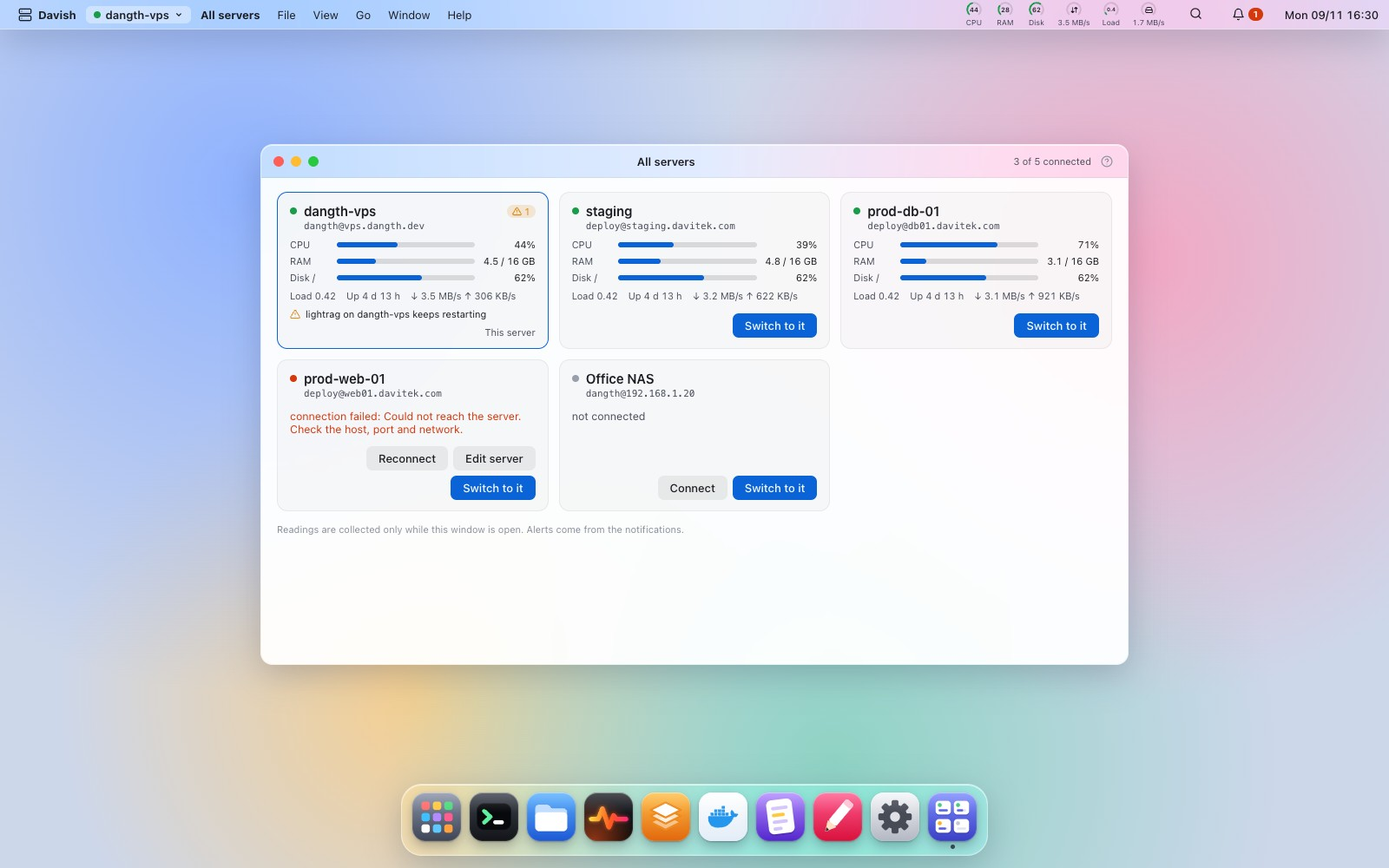
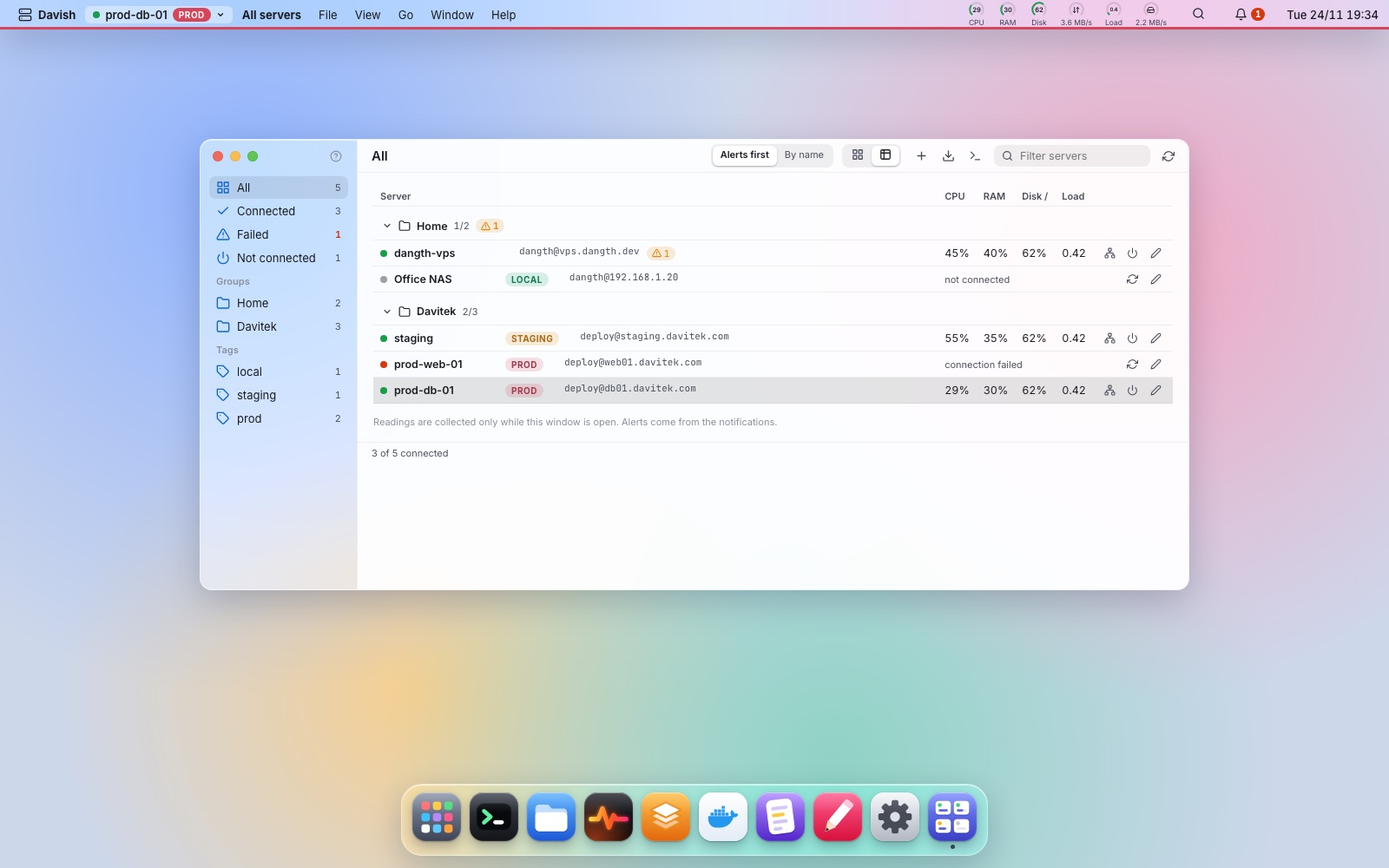
docs(repo): screenshots and text for server tags and groups
The All servers screenshot still showed the old card layout, everywhere
it appears. It is retaken, with groups, tags and the sidebar, for the
README docs in English and Vietnamese and for the site (light and dark),
and there is a new picture of the grouped server menu with its tags.

The All servers pages on the site (English and Vietnamese) now describe
groups and tags as FEATURES does, the filter sentence reflects that the
search always shows and also matches tag and group, and the READMEs
mention tags and groups in the multi-server bullet and in the All servers
entry. The pictures use the anonymized demo servers of the existing ones.

diff --git a/FEATURES.vi.md b/FEATURES.vi.md
@@ -72,13 +72,15 @@ Trên server Windows (OpenSSH, Windows PowerShell 5.1, không cài thêm gì) Mo
 
 Mọi server trong một cửa sổ, mở từ menu server, Launchpad hoặc Spotlight: đã kết nối chưa, CPU, RAM, ổ `/`, load, thời gian chạy và mạng, kèm số cảnh báo (service lỗi, container khởi động lại liên tục, ổ đầy…) và cảnh báo mới nhất. Kết nối hoặc chuyển sang server ngay trên thẻ của nó. Số liệu chỉ được thu khi cửa sổ đang mở, qua cùng phiên mà Monitor dùng.
 
-Nút **Bản đồ** trên thẻ server đã kết nối cho thấy request nào tới chương trình nào: mỗi site nginx là một chuỗi `tên miền → nginx :443 → :3000 → container (stack)`, site tĩnh kèm thư mục, và các cổng mở ra ngoài mà không site nào proxy tới. Cổng database mở ra Internet, upstream không ai nghe và chứng chỉ hết hạn trong 14 ngày được đưa lên đầu, mỗi cái có nút mở đúng app để sửa; mỗi mắt xích bấm được để mở app của nó (Nginx, Trình duyệt, Docker tại container đó). Bên dưới là những gì đang chạy (stack compose và chương trình đang nghe) và các ổ đĩa. Bản đồ chỉ đọc những gì Nginx, Cổng, Docker và Ổ đĩa vốn đã đọc. Từ 4 server trở lên, cửa sổ có ô lọc theo tên và xếp server có cảnh báo lên trước. Dạng **Danh sách** hiện mỗi server một dòng gọn (số liệu, cảnh báo, bản đồ, kết nối hoặc ngắt kết nối, sửa), và cửa sổ tự thêm, nhập, sửa, ngắt kết nối server. `⌘O` (Ctrl+O) mở nó từ bất cứ đâu.
+Nút **Bản đồ** trên thẻ server đã kết nối cho thấy request nào tới chương trình nào: mỗi site nginx là một chuỗi `tên miền → nginx :443 → :3000 → container (stack)`, site tĩnh kèm thư mục, và các cổng mở ra ngoài mà không site nào proxy tới. Cổng database mở ra Internet, upstream không ai nghe và chứng chỉ hết hạn trong 14 ngày được đưa lên đầu, mỗi cái có nút mở đúng app để sửa; mỗi mắt xích bấm được để mở app của nó (Nginx, Trình duyệt, Docker tại container đó). Bên dưới là những gì đang chạy (stack compose và chương trình đang nghe) và các ổ đĩa. Bản đồ chỉ đọc những gì Nginx, Cổng, Docker và Ổ đĩa vốn đã đọc. Cửa sổ có ô lọc theo tên, host, nhãn hoặc nhóm, và từ 4 server trở lên còn xếp server có cảnh báo lên trước được. Dạng **Danh sách** hiện mỗi server một dòng gọn (số liệu, cảnh báo, bản đồ, kết nối hoặc ngắt kết nối, sửa), và cửa sổ tự thêm, nhập, sửa, ngắt kết nối server. `⌘O` (Ctrl+O) mở nó từ bất cứ đâu.
 
 **Nhóm và bộ lọc.** Đặt **Nhóm** cho server trong hộp thoại của nó (một cấp, tối đa 40 ký tự) thì cửa sổ xếp các server dưới tiêu đề thư mục gập được, ở cả dạng thẻ lẫn dạng bảng; thư mục cho biết bao nhiêu server trong đó đang chạy và số cảnh báo, và nhớ bạn đã gập hay chưa. Thanh bên lọc theo trạng thái kết nối (Tất cả, Đã kết nối, Bị lỗi, Chưa kết nối), theo nhóm và theo nhãn, mỗi mục có số đếm; ô tìm kiếm khớp tên, host, nhãn và nhóm. Không server nào có nhóm thì danh sách trông như trước. Menu server trên thanh menu cũng chia nhóm như vậy, và `⌘1…⌘9` theo đúng thứ tự nó hiện: nhóm A là 1, 2, 3, nhóm B là 4, 5, 6.
 
 **Nhãn** giúp phân biệt môi trường. Trong hộp thoại thêm hoặc sửa server, chọn `local`, `staging`, `prod` hoặc tự gõ nhãn (tối đa 24 ký tự); nhãn lấy màu của server. Nhãn hiện cạnh tên server trên menu bar, trong menu server, trong cửa sổ này và trên thanh tiêu đề của mọi cửa sổ, và một vạch mảnh cùng màu chạy dưới menu bar, nên chữ `prod` màu đỏ luôn thấy dù đang mở app nào. Từ hai nhãn trở lên, menu server và cửa sổ này lọc được theo nhãn, ô tìm kiếm ở đây cũng khớp nhãn. Server không có nhãn trông y như trước.
 
-<img src="assets/screenshots/servers.jpg" alt="Mọi server trong một màn hình" width="100%">
+<img src="assets/screenshots/servers.jpg" alt="Mọi server theo thư mục nhóm, kèm nhãn" width="100%">
+
+<img src="assets/screenshots/server-menu.jpg" alt="Menu server chia nhóm, kèm nhãn và số ⌘1…⌘9" width="100%">
 
 **Chạy lệnh…** chạy một lệnh trên các server bạn chọn, như `ssh server lệnh`: mỗi server một tab terminal, tối đa 4 server cùng lúc, các server còn lại chờ lượt. Server nào hỏi lại (mật khẩu sudo, `[Y/n]`) thì tab đó được đưa lên để bạn trả lời ngay trong tab; Davish không bao giờ tự nhập mật khẩu sudo khi chạy nhiều server. Hộp xác nhận hiện đủ tên server và đúng lệnh; từ 3 server trở lên, hoặc lệnh trông như xóa, dừng, ghi đè thứ gì đó, phải gõ số server mới chạy. Mỗi tab kết thúc với exit code; **Chạy lại** cho các server lỗi. **Cập nhật package** dựng lệnh cập nhật riêng cho từng server với `sudo -n`: server nào sudo đòi mật khẩu sẽ báo, kèm nút mở Terminal. Mỗi server có một dòng trong Nhật ký lệnh.
 

diff --git a/site/src/content/docs/vi/docs/on-the-server/all-servers.md b/site/src/content/docs/vi/docs/on-the-server/all-servers.md
@@ -7,9 +7,15 @@ sidebar:
 
 Mọi server trong một cửa sổ, mở từ menu server, Launchpad hoặc Spotlight: đã kết nối chưa, CPU, RAM, ổ `/`, load, thời gian chạy và mạng, kèm số cảnh báo (service lỗi, container khởi động lại liên tục, ổ đầy…) và cảnh báo mới nhất. Kết nối hoặc chuyển sang server ngay trên thẻ của nó. Số liệu chỉ được thu khi cửa sổ đang mở, qua cùng phiên mà Monitor dùng.
 
-Nút **Bản đồ** trên thẻ server đã kết nối cho thấy request nào tới chương trình nào: mỗi site nginx là một chuỗi `tên miền → nginx :443 → :3000 → container (stack)`, site tĩnh kèm thư mục, và các cổng mở ra ngoài mà không site nào proxy tới. Cổng database mở ra Internet, upstream không ai nghe và chứng chỉ hết hạn trong 14 ngày được đưa lên đầu, mỗi cái có nút mở đúng app để sửa; mỗi mắt xích bấm được để mở app của nó (Nginx, Trình duyệt, Docker tại container đó). Bên dưới là những gì đang chạy (stack compose và chương trình đang nghe) và các ổ đĩa. Bản đồ chỉ đọc những gì Nginx, Cổng, Docker và Ổ đĩa vốn đã đọc. Từ 4 server trở lên, cửa sổ có ô lọc theo tên và xếp server có cảnh báo lên trước. Dạng **Danh sách** hiện mỗi server một dòng gọn (số liệu, cảnh báo, bản đồ, kết nối hoặc ngắt kết nối, sửa), và cửa sổ tự thêm, nhập, sửa, ngắt kết nối server. `⌘O` (Ctrl+O) mở nó từ bất cứ đâu.
+Nút **Bản đồ** trên thẻ server đã kết nối cho thấy request nào tới chương trình nào: mỗi site nginx là một chuỗi `tên miền → nginx :443 → :3000 → container (stack)`, site tĩnh kèm thư mục, và các cổng mở ra ngoài mà không site nào proxy tới. Cổng database mở ra Internet, upstream không ai nghe và chứng chỉ hết hạn trong 14 ngày được đưa lên đầu, mỗi cái có nút mở đúng app để sửa; mỗi mắt xích bấm được để mở app của nó (Nginx, Trình duyệt, Docker tại container đó). Bên dưới là những gì đang chạy (stack compose và chương trình đang nghe) và các ổ đĩa. Bản đồ chỉ đọc những gì Nginx, Cổng, Docker và Ổ đĩa vốn đã đọc. Cửa sổ có ô lọc theo tên, host, nhãn hoặc nhóm, và từ 4 server trở lên còn xếp server có cảnh báo lên trước được. Dạng **Danh sách** hiện mỗi server một dòng gọn (số liệu, cảnh báo, bản đồ, kết nối hoặc ngắt kết nối, sửa), và cửa sổ tự thêm, nhập, sửa, ngắt kết nối server. `⌘O` (Ctrl+O) mở nó từ bất cứ đâu.
 
-![Mọi server trong một màn hình](../../../../../../../assets/screenshots/servers.jpg)
+**Nhóm và bộ lọc.** Đặt **Nhóm** cho server trong hộp thoại của nó (một cấp, tối đa 40 ký tự) thì cửa sổ xếp các server dưới tiêu đề thư mục gập được, ở cả dạng thẻ lẫn dạng bảng; thư mục cho biết bao nhiêu server trong đó đang chạy và số cảnh báo, và nhớ bạn đã gập hay chưa. Thanh bên lọc theo trạng thái kết nối (Tất cả, Đã kết nối, Bị lỗi, Chưa kết nối), theo nhóm và theo nhãn, mỗi mục có số đếm; ô tìm kiếm khớp tên, host, nhãn và nhóm. Không server nào có nhóm thì danh sách trông như trước. Menu server trên thanh menu cũng chia nhóm như vậy, và `⌘1…⌘9` theo đúng thứ tự nó hiện: nhóm A là 1, 2, 3, nhóm B là 4, 5, 6.
+
+**Nhãn** giúp phân biệt môi trường. Trong hộp thoại thêm hoặc sửa server, chọn `local`, `staging`, `prod` hoặc tự gõ nhãn (tối đa 24 ký tự); nhãn lấy màu của server. Nhãn hiện cạnh tên server trên menu bar, trong menu server, trong cửa sổ này và trên thanh tiêu đề của mọi cửa sổ, và một vạch mảnh cùng màu chạy dưới menu bar, nên chữ `prod` màu đỏ luôn thấy dù đang mở app nào. Từ hai nhãn trở lên, menu server và cửa sổ này lọc được theo nhãn, ô tìm kiếm ở đây cũng khớp nhãn. Server không có nhãn trông y như trước.
+
+![Mọi server theo thư mục nhóm, kèm nhãn](../../../../../../../assets/screenshots/servers.jpg)
+
+![Menu server chia nhóm, kèm nhãn và số ⌘1…⌘9](../../../../../../../assets/screenshots/server-menu.jpg)
 
 **Chạy lệnh…** chạy một lệnh trên các server bạn chọn, như `ssh server lệnh`: mỗi server một tab terminal, tối đa 4 server cùng lúc, các server còn lại chờ lượt. Server nào hỏi lại (mật khẩu sudo, `[Y/n]`) thì tab đó được đưa lên để bạn trả lời ngay trong tab; Davish không bao giờ tự nhập mật khẩu sudo khi chạy nhiều server. Hộp xác nhận hiện đủ tên server và đúng lệnh; từ 3 server trở lên, hoặc lệnh trông như xóa, dừng, ghi đè thứ gì đó, phải gõ số server mới chạy. Mỗi tab kết thúc với exit code; **Chạy lại** cho các server lỗi. **Cập nhật package** dựng lệnh cập nhật riêng cho từng server với `sudo -n`: server nào sudo đòi mật khẩu sẽ báo, kèm nút mở Terminal. Mỗi server có một dòng trong Nhật ký lệnh.
 

diff --git a/FEATURES.md b/FEATURES.md
@@ -72,13 +72,15 @@ On a Windows server (OpenSSH, Windows PowerShell 5.1, nothing installed) Monitor
 
 Every server in one window, from the server menu, Launchpad or Spotlight: connected or not, CPU, memory, the `/` disk, load, uptime and network, with its alerts (a failed service, a restart loop, a full disk…) counted and the latest one shown. Connect a server or switch to it from its card. Readings are collected only while the window is open, over the same session Monitor uses.
 
-**Map** on a connected server's card shows which requests reach which program: each nginx site as a chain `domain → nginx :443 → :3000 → container (stack)`, static sites with their folder, and ports open to the outside that no site proxies to. A database port open to the Internet, an upstream nobody listens on and a certificate expiring within 14 days are flagged at the top, each with a button to the app that fixes it; every link opens its app (Nginx, the Browser, Docker at that container). Below, what runs (compose stacks and listening programs) and the disks. It only reads what Nginx, Ports, Docker and Disk already read. With four servers or more, the window filters by name and puts servers with alerts first. **List** shows every server as one compact row (readings, alerts, map, connect or disconnect, edit), and the window adds, imports, edits and disconnects servers itself. `⌘O` (Ctrl+O) opens it from anywhere.
+**Map** on a connected server's card shows which requests reach which program: each nginx site as a chain `domain → nginx :443 → :3000 → container (stack)`, static sites with their folder, and ports open to the outside that no site proxies to. A database port open to the Internet, an upstream nobody listens on and a certificate expiring within 14 days are flagged at the top, each with a button to the app that fixes it; every link opens its app (Nginx, the Browser, Docker at that container). Below, what runs (compose stacks and listening programs) and the disks. It only reads what Nginx, Ports, Docker and Disk already read. The window filters by name, host, tag or group, and with four servers or more it can put servers with alerts first. **List** shows every server as one compact row (readings, alerts, map, connect or disconnect, edit), and the window adds, imports, edits and disconnects servers itself. `⌘O` (Ctrl+O) opens it from anywhere.
 
 **Groups and filters.** Give a server a **Group** in its dialog (one level, up to 40 characters) and the window lists its servers under folder headings that fold, in the cards and in the table; a folder shows how many of its servers are up and its alerts, and remembers if you folded it. The sidebar filters by connection state (All, Connected, Failed, Not connected), by group and by tag, each with a count, and the search matches names, hosts, tags and groups. With no group on any server the list looks as it always did. The server menu in the menu bar groups its servers the same way, and `⌘1…⌘9` follow the order it shows: group A is 1, 2, 3, group B is 4, 5, 6.
 
 **Tags** tell environments apart. In the add or edit server dialog, pick `local`, `staging` or `prod`, or type your own (up to 24 characters); the tag takes the server's color. It shows next to the server's name in the menu bar, the server menu, this window and every window's title bar, and a thin line in that color runs under the menu bar, so a red `prod` stays visible whichever app is open. With two tags or more, the server menu and this window filter by tag, and the search here matches tags too. Servers without a tag look exactly as before.
 
-<img src="assets/screenshots/en/servers.jpg" alt="Every server at a glance" width="100%">
+<img src="assets/screenshots/en/servers.jpg" alt="All servers in folders by group, with tags" width="100%">
+
+<img src="assets/screenshots/en/server-menu.jpg" alt="The server menu, grouped, with tags and the ⌘1…⌘9 numbers" width="100%">
 
 **Run a command…** runs one command on the servers you tick, as `ssh server command` would: each server in its own terminal tab, at most four at a time, the rest waiting their turn. When a server asks something (a sudo password, `[Y/n]`), its tab comes forward and you answer there; Davish never types a sudo password for a run. The confirm dialog shows every server and the exact command; from three servers, or for a command that looks like it removes, stops or overwrites something, you type the number of servers to go ahead. Each tab ends with its exit code; **Run again** retries the ones that failed. **Update packages** prepares each server's own update with `sudo -n`: a server whose sudo wants a password says so, with a button to Terminal. Each server gets one line in the Command log.
 

diff --git a/site/src/content/docs/docs/on-the-server/all-servers.md b/site/src/content/docs/docs/on-the-server/all-servers.md
@@ -7,9 +7,15 @@ sidebar:
 
 Every server in one window, from the server menu, Launchpad or Spotlight: connected or not, CPU, memory, the `/` disk, load, uptime and network, with its alerts (a failed service, a restart loop, a full disk…) counted and the latest one shown. Connect a server or switch to it from its card. Readings are collected only while the window is open, over the same session Monitor uses.
 
-**Map** on a connected server's card shows which requests reach which program: each nginx site as a chain `domain → nginx :443 → :3000 → container (stack)`, static sites with their folder, and ports open to the outside that no site proxies to. A database port open to the Internet, an upstream nobody listens on and a certificate expiring within 14 days are flagged at the top, each with a button to the app that fixes it; every link opens its app (Nginx, the Browser, Docker at that container). Below, what runs (compose stacks and listening programs) and the disks. It only reads what Nginx, Ports, Docker and Disk already read. With four servers or more, the window filters by name and puts servers with alerts first. **List** shows every server as one compact row (readings, alerts, map, connect or disconnect, edit), and the window adds, imports, edits and disconnects servers itself. `⌘O` (Ctrl+O) opens it from anywhere.
+**Map** on a connected server's card shows which requests reach which program: each nginx site as a chain `domain → nginx :443 → :3000 → container (stack)`, static sites with their folder, and ports open to the outside that no site proxies to. A database port open to the Internet, an upstream nobody listens on and a certificate expiring within 14 days are flagged at the top, each with a button to the app that fixes it; every link opens its app (Nginx, the Browser, Docker at that container). Below, what runs (compose stacks and listening programs) and the disks. It only reads what Nginx, Ports, Docker and Disk already read. The window filters by name, host, tag or group, and with four servers or more it can put servers with alerts first. **List** shows every server as one compact row (readings, alerts, map, connect or disconnect, edit), and the window adds, imports, edits and disconnects servers itself. `⌘O` (Ctrl+O) opens it from anywhere.
 
-![Every server at a glance](../../../../../../assets/screenshots/en/servers.jpg)
+**Groups and filters.** Give a server a **Group** in its dialog (one level, up to 40 characters) and the window lists its servers under folder headings that fold, in the cards and in the table; a folder shows how many of its servers are up and its alerts, and remembers if you folded it. The sidebar filters by connection state (All, Connected, Failed, Not connected), by group and by tag, each with a count, and the search matches names, hosts, tags and groups. With no group on any server the list looks as it always did. The server menu in the menu bar groups its servers the same way, and `⌘1…⌘9` follow the order it shows: group A is 1, 2, 3, group B is 4, 5, 6.
+
+**Tags** tell environments apart. In the add or edit server dialog, pick `local`, `staging` or `prod`, or type your own (up to 24 characters); the tag takes the server's color. It shows next to the server's name in the menu bar, the server menu, this window and every window's title bar, and a thin line in that color runs under the menu bar, so a red `prod` stays visible whichever app is open. With two tags or more, the server menu and this window filter by tag, and the search here matches tags too. Servers without a tag look exactly as before.
+
+![All servers in folders by group, with tags](../../../../../../assets/screenshots/en/servers.jpg)
+
+![The server menu, grouped, with tags and the ⌘1…⌘9 numbers](../../../../../../assets/screenshots/en/server-menu.jpg)
 
 **Run a command…** runs one command on the servers you tick, as `ssh server command` would: each server in its own terminal tab, at most four at a time, the rest waiting their turn. When a server asks something (a sudo password, `[Y/n]`), its tab comes forward and you answer there; Davish never types a sudo password for a run. The confirm dialog shows every server and the exact command; from three servers, or for a command that looks like it removes, stops or overwrites something, you type the number of servers to go ahead. Each tab ends with its exit code; **Run again** retries the ones that failed. **Update packages** prepares each server's own update with `sudo -n`: a server whose sudo wants a password says so, with a button to Terminal. Each server gets one line in the Command log.
 

diff --git a/README.vi.md b/README.vi.md
@@ -32,7 +32,7 @@ Không cài gì lên server.
 - **Thấy trước mọi lệnh.** Thao tác phá hủy (dừng dịch vụ, xóa file, khởi động lại container, thay crontab) hiện đúng lệnh sẽ chạy trước khi chạy. Nhật ký lệnh ghi lại mọi thứ Davish đã chạy thay bạn, và xuất các thay đổi thành shell script để đọc lại và chạy lại.
 - **Bí mật nằm trong keychain.** Mật khẩu và passphrase chỉ lưu trong keychain của hệ điều hành. Mật khẩu `sudo` không bao giờ được lưu: khi cần root, Davish hỏi một lần mỗi phiên, chỉ giữ trong bộ nhớ, quên sau 15 phút không dùng và đưa cho sudo qua stdin, hoặc bạn tự chạy lệnh trong Terminal.
 - **Tự khóa khi bạn rời máy.** Mật khẩu khóa riêng, Touch ID trên macOS; khóa khi máy ngủ dậy, sau thời gian không dùng, hoặc `⌘L`. Phiên SSH vẫn chạy sau màn khóa, nhưng không thao tác nào tới được server cho tới khi mở khóa.
-- **Nhiều server, một desktop.** Mỗi server là một workspace (`⌘1`…`⌘9`) nhớ cửa sổ riêng của nó. Kéo file để copy giữa các server.
+- **Nhiều server, một desktop.** Mỗi server là một workspace (`⌘1`…`⌘9`) nhớ cửa sổ riêng của nó. Kéo file để copy giữa các server. Gắn nhãn (`prod`, `staging`…) và nhóm cho server, để chữ `prod` đỏ luôn hiện trên màn hình và server xếp theo thư mục.
 - **Tự cập nhật.** Có bản mới thì hiện thay đổi kèm Cập nhật, Để sau, Bỏ qua bản này; Davish tự tải, kiểm chữ ký rồi khởi động lại vào bản mới. Không phải cài lại.
 - **Tiếng Việt, tiếng Anh, tiếng Trung giản thể hoặc tiếng Tây Ban Nha.** Chọn ngôn ngữ trong Cài đặt; lần đầu Davish theo ngôn ngữ của máy.
 - **Dùng luôn `~/.ssh/config` và Ansible inventory.** Nhập host một lần, kèm key và `ProxyJump`, cả một group Ansible một lúc; Davish chỉ đọc file. Server sau bastion kết nối qua nó, mỗi bậc kiểm tra host key riêng, cả chuỗi tự kết nối lại.
@@ -48,7 +48,7 @@ Không cài gì lên server.
 - [Editor](FEATURES.vi.md#editor): CodeMirror, lưu atomic, có sao lưu, tùy chỉnh được
 - [Logs](FEATURES.vi.md#logs): journal, file, container, theo dõi trực tiếp và tìm trong toàn bộ lịch sử trên server
 - [Monitor](FEATURES.vi.md#monitor): CPU, RAM, ổ đĩa, mạng, GPU, tiến trình, trên server Linux và Windows
-- [Tất cả server](FEATURES.vi.md#tất-cả-server): tình trạng và cảnh báo của mọi server trong một cửa sổ, bản đồ những gì mỗi server đang phục vụ, và chạy một lệnh trên nhiều server, mỗi server một tab terminal
+- [Tất cả server](FEATURES.vi.md#tất-cả-server): tình trạng và cảnh báo của mọi server trong một cửa sổ, xếp thư mục theo nhóm và lọc theo trạng thái, nhóm hoặc nhãn, bản đồ những gì mỗi server đang phục vụ, và chạy một lệnh trên nhiều server, mỗi server một tab terminal
 
 **Dịch vụ và ứng dụng**
 

diff --git a/README.zh-CN.md b/README.zh-CN.md
@@ -32,7 +32,7 @@
 - **每条命令都看得见。** 任何有破坏性的操作（停止服务、删除文件、重启容器、替换 crontab）在执行前都会显示完整的命令。命令日志记录了 Davish 代你执行过的所有操作，并能把更改导出为可阅读、可重放的 shell 脚本。
 - **密码只存在钥匙串里。** 密码和私钥口令只保存在系统钥匙串中。`sudo` 密码从不保存：需要 root 时，Davish 每个会话只询问一次，只保存在内存中，闲置 15 分钟后自动忘记，并通过 stdin 交给 sudo；你也可以自己在终端中运行命令。
 - **离开时自动锁定。** 独立的锁屏密码，macOS 上支持 Touch ID；电脑唤醒、空闲一段时间或按 `⌘L` 时锁定。锁定期间会话照常运行，但解锁前不会向服务器发送任何操作。
-- **多台服务器，一个桌面。** 每台服务器是一个工作区（`⌘1`…`⌘9`），各自记住自己的窗口。拖动文件即可在服务器之间复制。
+- **多台服务器，一个桌面。** 每台服务器是一个工作区（`⌘1`…`⌘9`），各自记住自己的窗口。拖动文件即可在服务器之间复制。为服务器加上标签（`prod`、`staging`…）和分组，红色的 `prod` 始终显示在屏幕上，服务器按文件夹排列。
 - **自动更新。** 有新版本时会显示更新内容，可选择更新、稍后或跳过此版本；Davish 自动下载、校验签名并重启到新版本，无需重新安装。
 - **简体中文、英文、越南文或西班牙文界面。** 在设置中选择语言；首次启动时跟随系统语言。中文翻译刚刚加入，欢迎在 [Issues](https://github.com/2hjaito/davish/issues) 中指出不通顺的地方。
 - **直接使用你的 `~/.ssh/config` 和 Ansible inventory。** 一次导入其中的主机，包括密钥和 `ProxyJump`，也可以一次导入整个 Ansible 分组；Davish 只读取这些文件。堡垒机后面的服务器会经由堡垒机连接，每一跳都单独校验主机密钥，整条链路断开后会自动重连。
@@ -48,7 +48,7 @@
 - [编辑器](FEATURES.md#editor)：基于 CodeMirror，原子保存、自动备份，可自定义
 - [日志](FEATURES.md#logs)：journal、日志文件和容器日志，实时查看，并可在服务器上搜索全部历史
 - [监控](FEATURES.md#monitor)：CPU、内存、磁盘、网络、GPU、进程，支持 Linux 和 Windows 服务器
-- [所有服务器](FEATURES.md#all-servers)：在一个窗口里查看所有服务器的状态和告警、每台服务器对外提供什么的地图，以及在多台服务器上运行同一条命令（每台一个终端标签页）
+- [所有服务器](FEATURES.md#all-servers)：在一个窗口里查看所有服务器的状态和告警（按分组文件夹排列，可按状态、分组或标签筛选）、每台服务器对外提供什么的地图，以及在多台服务器上运行同一条命令（每台一个终端标签页）
 
 **服务与应用**
 

diff --git a/README.md b/README.md
@@ -32,7 +32,7 @@ Nothing to install on the server.
 - **You see every command.** Anything destructive (stop a service, remove a file, restart a container, replace a crontab) shows the exact command before it runs. The command log records everything Davish ran on your behalf, and exports the changes as a shell script you can read and run again.
 - **Secrets stay in your keychain.** Passwords and passphrases live only in the OS keychain. A `sudo` password is never saved: when root is needed, Davish asks for it once per session, keeps it in memory only, forgets it after 15 minutes unused and hands it to sudo on stdin, or you run the command in a terminal yourself.
 - **Locks when you step away.** A lock password of its own, Touch ID on macOS; it locks when the machine wakes, after idle time or with `⌘L`. Sessions keep running behind the lock, but nothing reaches a server until you unlock.
-- **Many servers, one desktop.** Each server is a workspace (`⌘1`…`⌘9`) that remembers its own windows. Copy files between servers by dragging them.
+- **Many servers, one desktop.** Each server is a workspace (`⌘1`…`⌘9`) that remembers its own windows. Copy files between servers by dragging them. Give a server a tag (`prod`, `staging`…) and a group, so a red `prod` stays on screen and servers sit in folders.
 - **Updates itself.** A new version shows its changes with Update, Later and Skip this version; Davish downloads it, checks its signature and restarts into it. No reinstalling.
 - **English, Vietnamese, Simplified Chinese or Spanish.** Pick the language in Settings; the first time, Davish follows your system's. Spanish is new: corrections are welcome in [#124](https://github.com/2hjaito/davish/issues/124).
 - **Your `~/.ssh/config` works, and so does your Ansible inventory.** Import their hosts in one go, keys and `ProxyJump` included, a whole Ansible group at a time; Davish only reads the files. Servers behind a bastion connect through it, each hop with its own host key check, and the whole chain reconnects on its own.
@@ -48,7 +48,7 @@ Nothing to install on the server.
 - [Editor](FEATURES.md#editor): CodeMirror with atomic saves, backups and options
 - [Logs](FEATURES.md#logs): journal, files and containers, live, and search their whole history on the server
 - [Monitor](FEATURES.md#monitor): CPU, memory, disks, network, GPUs, processes, on Linux and Windows servers
-- [All servers](FEATURES.md#all-servers): every server's health and alerts in one window, a map of what each one serves, and one command run on several servers, a terminal tab each
+- [All servers](FEATURES.md#all-servers): every server's health and alerts in one window, in folders by group and filtered by state, group or tag, a map of what each one serves, and one command run on several servers, a terminal tab each
 
 **Services and apps**
 
